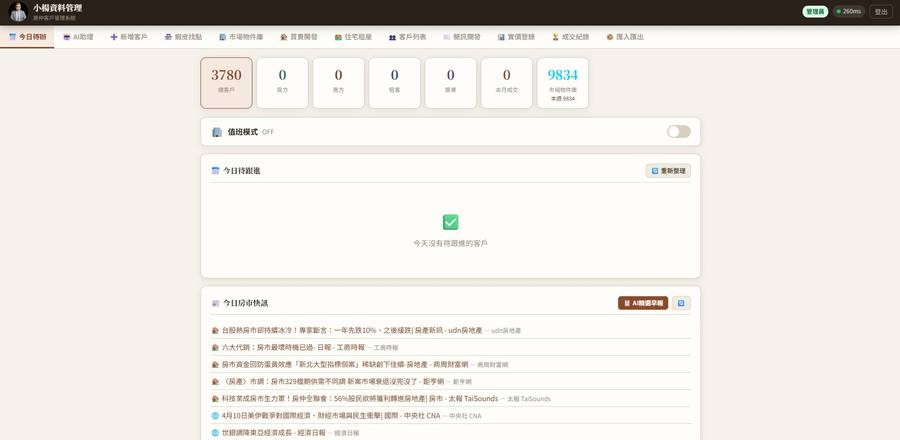
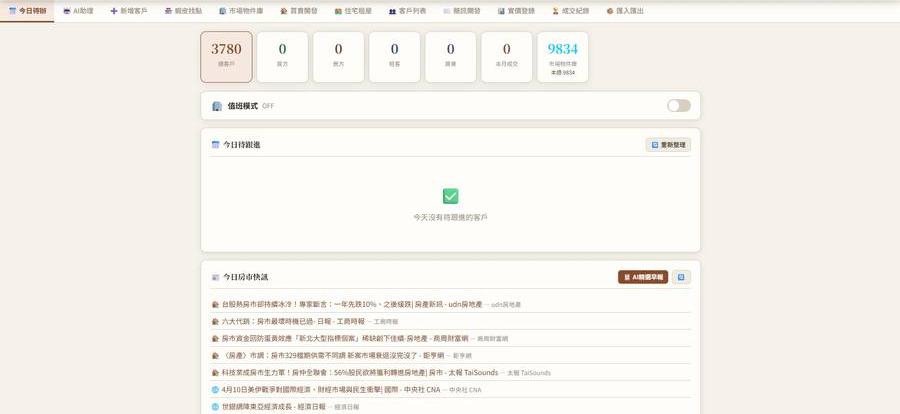
houseyang.tw 對抗審查修正：hero 截圖裁掉舊殼標題列、更新週期改「隨官方釋出定期更新」、客服信箱改 support@、手機 grid 改 minmax、清除創辦人圖檔
- images/crm.jpg：實體裁掉頂端 26px 舊殼標題列（「小楊資料管理」＋個人頭像），900×440 → 900×414；hero 主視覺不再露個人品牌，直連圖檔也乾淨
- index.html 02 段副標＋FAQ「資料是從哪裡來的？」：「按季更新」→「隨官方釋出定期更新」（實價為批次匯入、人口統計年更，不寫死週期）
- index.html footer＋legal.html 四處：hank@houseyang.tw → support@houseyang.tw（依 WS1 1-1b③ 五站公司別名；ImprovMX catch-all *@houseyang.tw 照常轉信）
- index.html @media 860px：.hero-split／.engine／.compare,.feat-grid,.price-grid／.phone-wrap／.story-cards／.form-grid 六處 1fr → minmax(0,1fr)，與 .hd-grid 一致
- git rm images/photo.jpg、signature.png、houseyang-lockup-dark.png、houseyang-lockup-light.png（頁面零引用、其他站零引用；含 SINCE 2012 的個人 lockup 一併移除）
- 驗證：HTML 標籤配對 0 錯、重複 id 0、div 262/262、JSON-LD 合法、站內連結／圖檔全存在；Puppeteer 1280／390／360 寬 scrollWidth==clientWidth 無溢出；2x hero 框放大確認無舊名／頭像

diff --git a/index.html b/index.html
@@ -292,7 +292,7 @@ footer::before{content:"";position:absolute;top:0;left:0;right:0;height:1px;back
 .footer-text a:hover{color:var(--coral-deep);border-bottom-color:var(--coral)}
 
 @media(max-width:860px){
-  .hero-split{grid-template-columns:1fr;padding:40px 20px 0;gap:0;min-height:auto}
+  .hero-split{grid-template-columns:minmax(0,1fr);padding:40px 20px 0;gap:0;min-height:auto}
   .hero-left{order:2;margin:52px auto 0;padding:0 0 34px;width:100%}
   .photo-wrap{max-width:360px;margin:0 auto}
   .intel-1{right:-6px;top:-30px}
@@ -302,13 +302,13 @@ footer::before{content:"";position:absolute;top:0;left:0;right:0;height:1px;back
   .hero-right{order:1;padding:48px 0 0}
   .hd-grid{grid-template-columns:repeat(2,minmax(0,1fr));gap:14px 0}
   .hd:nth-child(3){padding-left:0;border-left:0}
-  .engine{grid-template-columns:1fr}
-  .compare,.feat-grid,.price-grid{grid-template-columns:1fr}
-  .phone-wrap{grid-template-columns:1fr;gap:40px}
+  .engine{grid-template-columns:minmax(0,1fr)}
+  .compare,.feat-grid,.price-grid{grid-template-columns:minmax(0,1fr)}
+  .phone-wrap{grid-template-columns:minmax(0,1fr);gap:40px}
   .phone-frame{max-width:240px}
   .phone-text{order:-1}
-  .story-cards{grid-template-columns:1fr}
-  .form-grid{grid-template-columns:1fr}
+  .story-cards{grid-template-columns:minmax(0,1fr)}
+  .form-grid{grid-template-columns:minmax(0,1fr)}
   .hero-btns{flex-direction:column}
   .hero-btns .btn-primary,.hero-btns .btn-secondary{width:100%;text-align:center}
   .final-btns{flex-direction:column;align-items:center}
@@ -430,7 +430,7 @@ footer::before{content:"";position:absolute;top:0;left:0;right:0;height:1px;back
   <div class="wrap">
     <div class="kicker"><span class="k-no">02</span><span class="k-line"></span><span class="k-label">資料底盤 / Data Engine</span></div>
     <h2 class="sec-title">不是規格表，是每天在跑的資料庫</h2>
-    <div class="sec-sub">HouseYang 的底盤由三種資料構成：市場上正在刊登的、歷年成交過的、門牌上開過又關過的。政府開放資料與官方統計按季更新，刊登情報每天自動進來。你開通的第一天，這些就全是你的火力。</div>
+    <div class="sec-sub">HouseYang 的底盤由三種資料構成：市場上正在刊登的、歷年成交過的、門牌上開過又關過的。政府開放資料與官方統計隨官方釋出定期更新，刊登情報每天自動進來。你開通的第一天，這些就全是你的火力。</div>
     <div class="engine">
       <div class="ledger">
         <div class="lg-hd"><b>資料清冊</b><span>全台 22 縣市</span></div>
@@ -660,7 +660,7 @@ footer::before{content:"";position:absolute;top:0;left:0;right:0;height:1px;back
       </div>
       <div class="faq-item">
         <div class="faq-q">資料是從哪裡來的？<span class="faq-arrow">＋</span></div>
-        <div class="faq-a">三類。一是政府開放資料與官方統計：歷年成交行情、租賃行情、人口統計網格、村里消費力、門牌店鋪興替，按季更新。二是租售平台公開刊登資訊：每天自動整理，屋主自售與同行上下架動態一起看。三是你自己累積的客戶資料：永久保存，只有你看得到。</div>
+        <div class="faq-a">三類。一是政府開放資料與官方統計：歷年成交行情、租賃行情、人口統計網格、村里消費力、門牌店鋪興替，隨官方釋出定期更新。二是租售平台公開刊登資訊：每天自動整理，屋主自售與同行上下架動態一起看。三是你自己累積的客戶資料：永久保存，只有你看得到。</div>
       </div>
       <div class="faq-item">
         <div class="faq-q">我不太會用電腦，會很難嗎？<span class="faq-arrow">＋</span></div>
@@ -739,7 +739,7 @@ footer::before{content:"";position:absolute;top:0;left:0;right:0;height:1px;back
     <a href="https://moments.tw" target="_blank" rel="noopener"><b>心頁</b> Moments</a>
   </div>
   <div class="footer-text">© 2026 匯瀚科技有限公司 VASTHUB Technology Co., Ltd. · 統一編號 62164098 · 專為台灣房仲設計<br>
-  <a href="https://vasthub.tw" target="_blank" rel="noopener">vasthub.tw</a> · <a href="mailto:hank@houseyang.tw">hank@houseyang.tw</a> · LINE <a href="https://lin.ee/6oqS8hI" target="_blank" rel="noopener">@878gghtx</a><br>
+  <a href="https://vasthub.tw" target="_blank" rel="noopener">vasthub.tw</a> · <a href="mailto:support@houseyang.tw">support@houseyang.tw</a> · LINE <a href="https://lin.ee/6oqS8hI" target="_blank" rel="noopener">@878gghtx</a><br>
   <a href="legal.html#terms">服務條款</a> · <a href="legal.html#privacy">隱私權政策</a> · <a href="legal.html#refund">退款政策</a> · <a href="legal.html#consumer">消費者權益</a></div>
 </footer>
 

diff --git a/legal.html b/legal.html
@@ -91,7 +91,7 @@ footer .wrap{font-size:13.5px;color:var(--muted)}
       <dt>統一編號</dt><dd>62164098</dd>
       <dt>登記地址</dt><dd>(108) 臺北市萬華區長沙街二段 91 號 6 樓之 2</dd>
       <dt>客服電話</dt><dd><a href="tel:0900234099">0900-234-099</a>（週一至週五 10:00–18:00）</dd>
-      <dt>客服信箱</dt><dd><a href="mailto:hank@houseyang.tw">hank@houseyang.tw</a></dd>
+      <dt>客服信箱</dt><dd><a href="mailto:support@houseyang.tw">support@houseyang.tw</a></dd>
       <dt>官方 LINE</dt><dd><a href="https://lin.ee/6oqS8hI" target="_blank" rel="noopener">@878gghtx</a></dd>
     </dl>
   </div>
@@ -126,7 +126,7 @@ footer .wrap{font-size:13.5px;color:var(--muted)}
       <li><b>利用期間、地區、對象與方式</b>：於蒐集目的存續期間及法令要求之保存年限內，在中華民國境內及本公司使用之雲端主機所在地，由本公司及必要之委外協力廠商（金流服務商、雲端主機服務商、表單與電子郵件服務商）於必要範圍內利用。本公司不會將您的個人資料販售或提供予無關之第三人。</li>
       <li><b>您輸入之第三人資料</b>：您於系統中建立之客戶名單等第三人資料，您應確保其蒐集與利用符合個人資料保護法；本公司僅依您的指示、於提供服務之目的內處理，不另行利用。</li>
       <li><b>Cookie</b>：本網站可能使用 Cookie 及必要之流量統計以維持功能與改善體驗；您可於瀏覽器設定中管理。</li>
-      <li><b>當事人權利</b>：依個人資料保護法第 3 條，您得請求查詢閱覽、製給複製本、補充更正、停止蒐集處理利用或刪除您的個人資料。請來信 <a href="mailto:hank@houseyang.tw">hank@houseyang.tw</a> 提出，本公司將儘速辦理（依法得酌收必要成本費用）。</li>
+      <li><b>當事人權利</b>：依個人資料保護法第 3 條，您得請求查詢閱覽、製給複製本、補充更正、停止蒐集處理利用或刪除您的個人資料。請來信 <a href="mailto:support@houseyang.tw">support@houseyang.tw</a> 提出，本公司將儘速辦理（依法得酌收必要成本費用）。</li>
       <li><b>安全維護</b>：本網站全程使用 HTTPS 加密傳輸，並以存取權限控管、最小權限原則保護您的資料。</li>
       <li><b>政策修訂</b>：本政策修訂後將公告於本頁，重大變更另行通知。</li>
     </ol>
@@ -146,7 +146,7 @@ footer .wrap{font-size:13.5px;color:var(--muted)}
     </ul>
     <h3>退款申請方式與時程</h3>
     <ol class="cl">
-      <li>透過官方 LINE <a href="https://lin.ee/6oqS8hI" target="_blank" rel="noopener">@878gghtx</a>、客服信箱 <a href="mailto:hank@houseyang.tw">hank@houseyang.tw</a> 或電話 0900-234-099 提出，敘明訂購資訊與退款原因。</li>
+      <li>透過官方 LINE <a href="https://lin.ee/6oqS8hI" target="_blank" rel="noopener">@878gghtx</a>、客服信箱 <a href="mailto:support@houseyang.tw">support@houseyang.tw</a> 或電話 0900-234-099 提出，敘明訂購資訊與退款原因。</li>
       <li>本公司於 3 個工作天內回覆處理結果。</li>
       <li>核准後：信用卡付款由藍新金流依原交易刷退（實際入帳時間依發卡銀行作業，約 7–14 個工作天）；ATM／匯款付款於 7 個工作天內退至您指定之帳戶。</li>
       <li>已開立統一發票者，依財政部規定辦理發票作廢或折讓。</li>
@@ -171,7 +171,7 @@ footer .wrap{font-size:13.5px;color:var(--muted)}
 <footer>
   <div class="wrap">
     匯瀚科技有限公司　VASTHUB Technology Co., Ltd.　統一編號 62164098<br>
-    (108) 臺北市萬華區長沙街二段 91 號 6 樓之 2　·　<a href="tel:0900234099">0900-234-099</a>　·　<a href="mailto:hank@houseyang.tw">hank@houseyang.tw</a>　·　LINE <a href="https://lin.ee/6oqS8hI" target="_blank" rel="noopener">@878gghtx</a><br>
+    (108) 臺北市萬華區長沙街二段 91 號 6 樓之 2　·　<a href="tel:0900234099">0900-234-099</a>　·　<a href="mailto:support@houseyang.tw">support@houseyang.tw</a>　·　LINE <a href="https://lin.ee/6oqS8hI" target="_blank" rel="noopener">@878gghtx</a><br>
     <a href="#terms">服務條款</a>　·　<a href="#privacy">隱私權政策</a>　·　<a href="#refund">退款政策</a>　·　<a href="#consumer">消費者權益</a>　·　<a href="index.html">回首頁</a>
   </div>
 </footer>
